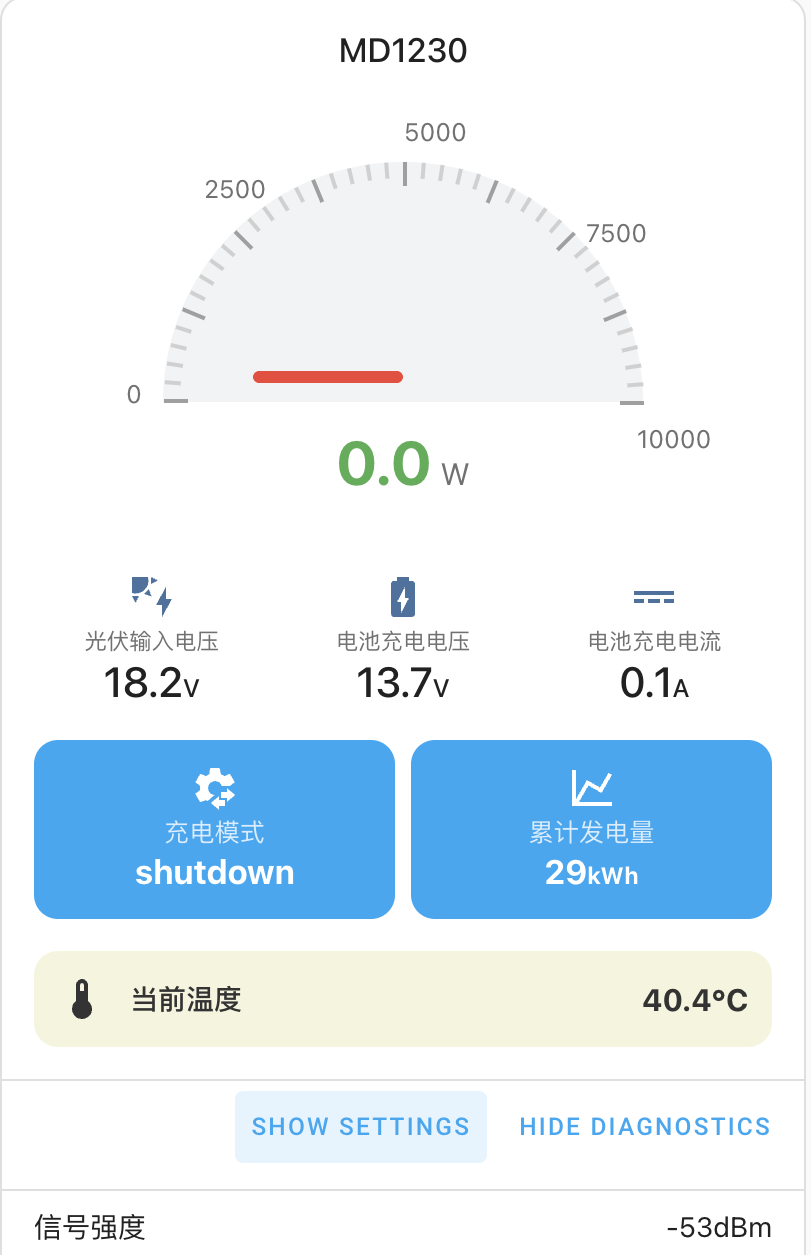
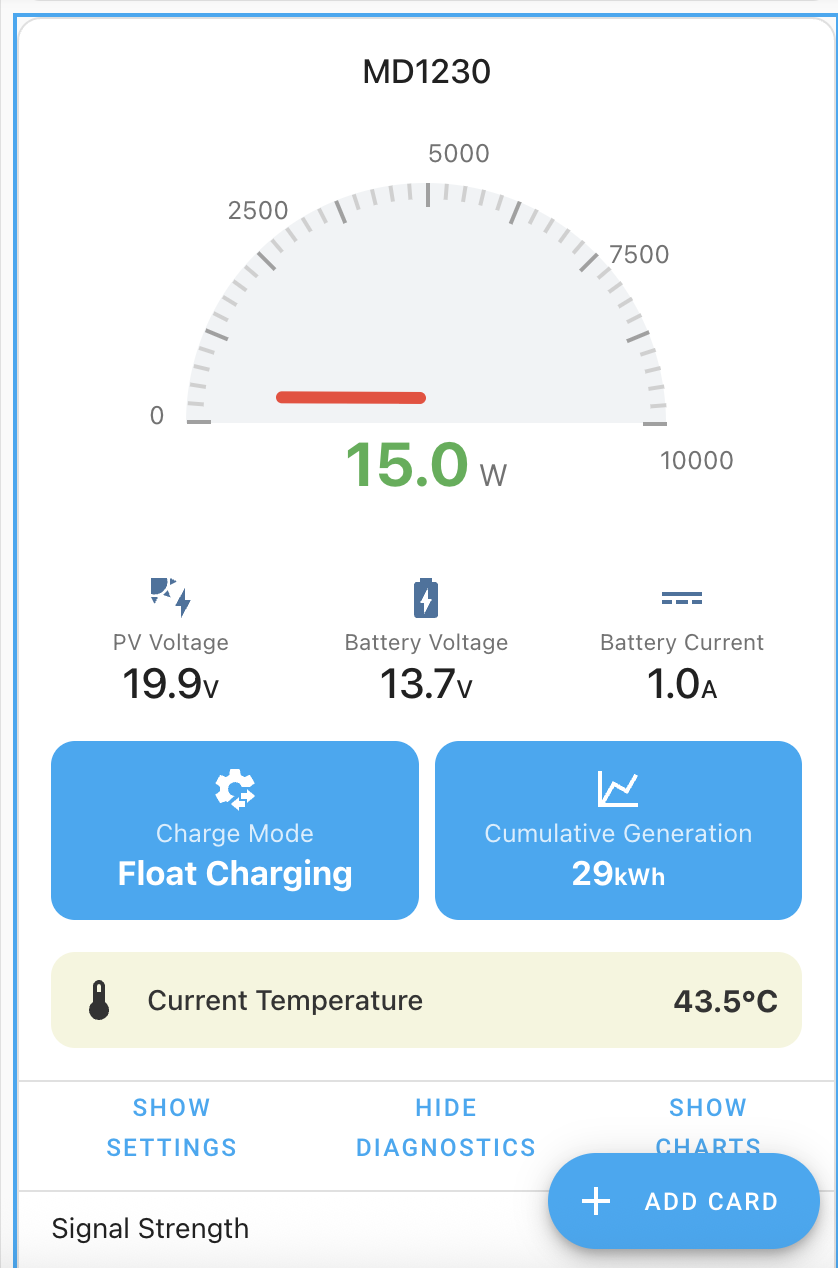
doc: update frontpage

diff --git a/README.md b/README.md
@@ -1,4 +1,58 @@
-# Makeskyblue mppt dash board ui
-This is a dashboard of of Makeskublue mppt, it shall work with [Solar Manager](https://github.com/maybetaken/Solar_Manager) (makeskyblue mppt device).
+# MakeSkyBlue MPPT Card
 
-![mppt](img/makeskyblue-mppt.jpg)
+A feature-rich Lovelace card for Home Assistant, designed to display and control MakeSkyBlue MPPT solar controllers integrated via the [Solar_Manager](https://github.com/maybetaken/Solar_Manager) custom component.
+
+This card provides a beautiful and comprehensive interface, closely resembling the native mobile app experience, with full localization support for English and Chinese.
+
+<img src="img/makeskyblue-mppt.jpg" alt="mppt" width="375">
+
+## Features
+
+-   **Dynamic Gauge**: A beautiful semi-circular gauge to visualize real-time charging power.
+-   **Complete Data Display**: Clearly shows essential data like PV voltage, battery voltage, and battery current.
+-   **Informative Panels**: At-a-glance info boxes for the current charging mode and cumulative power generation.
+-   **Full Localization**: Automatically switches between English and Chinese based on your Home Assistant user profile settings. All labels and states are translated.
+-   **Collapsible Sections**: Keep your dashboard clean with expandable panels for Settings, Diagnostics, and historical Charts.
+-   **Full Control**: The **Settings Panel** allows you to adjust all configurable parameters of your MPPT controller, such as equalization voltage, battery type, etc.
+-   **Device Diagnostics**: The **Diagnostics Panel** provides tools to check device status (WiFi signal, SSID), toggle the LED, and trigger device restart or reset.
+-   **Historical Charts**: The **Charts Panel** displays 24-hour history graphs for power and voltage, allowing you to analyze performance over time.
+-   **Simple Configuration**: Just provide your device's unique serial number, and the card will automatically find all related entities.
+
+## Installation
+
+The recommended way to install this card is through the [Home Assistant Community Store (HACS)](https://hacs.xyz/).
+
+1.  Go to HACS > Frontend.
+2.  Click the three dots in the top right corner and select **"Custom repositories"**.
+3.  Add the URL of this repository (`https://github.com/maybetaken/ha-makeskyblue-mppt-card`) and select the **"Lovelace"** category.
+4.  The "MakeSkyBlue MPPT Card" will now appear in your HACS list. Click on it and then click **"Download"**.
+5.  Follow the on-screen instructions to add the resource to your Lovelace dashboards.
+
+## Configuration
+
+Add a "Manual" card to your Lovelace dashboard and use the following configuration:
+
+```yaml
+type: custom:ha-makeskyblue-mppt-card
+device: m7g6fmpw3                 # Required: The unique serial number of your device.
+name:  m7g6fmpw3        # Optional: A custom title for the card.
+image: /local/makeskyblue-logo.png # Optional: URL for a brand logo to display at the top.
+power_switch_entity: switch.your_mppt_power_switch # Optional: Your device's power switch entity ID.
+battery_soc_entity: sensor.your_battery_soc_sensor # Optional: Your battery state of charge (SoC) entity ID.
+```
+
+### Configuration Variables
+
+| Name                  | Type   | Required | Description                                                                                                                              |
+| --------------------- | ------ | -------- | ---------------------------------------------------------------------------------------------------------------------------------------- |
+| `type`                | string | Yes      | Must be `custom:ha-makeskyblue-mppt-card`.                                                                                               |
+| `device`              | string | Yes      | The unique serial number part of your entity IDs. For example, if your entity is `sensor.makeskyblue_mppt_m7g6fmpw3_pv_voltage`, this should be `m7g6fmpw3`. The card will handle case-insensitivity. |
+| `name`                | string | No       | A custom name for the card. If not provided, the serial number will be used.                                                             |
+| `image`               | string | No       | A URL to a brand logo image. For local files, place the image in your `/config/www/` directory and use the path `/local/your_image.png`.   |
+| `power_switch_entity` | string | No       | If you have a separate `switch` entity to turn the device on/off, provide its full entity ID here.                                        |
+| `battery_soc_entity`  | string | No       | If you have a separate `sensor` entity for the battery's state of charge (SoC) percentage, provide its full entity ID here.               |
+
+## Acknowledgements
+
+-   This card is designed to work with the [Solar_Manager](https://github.com/maybetaken/Solar_Manager) custom component.
+-   The development process was greatly assisted by the robust Home Assistant developer community.
